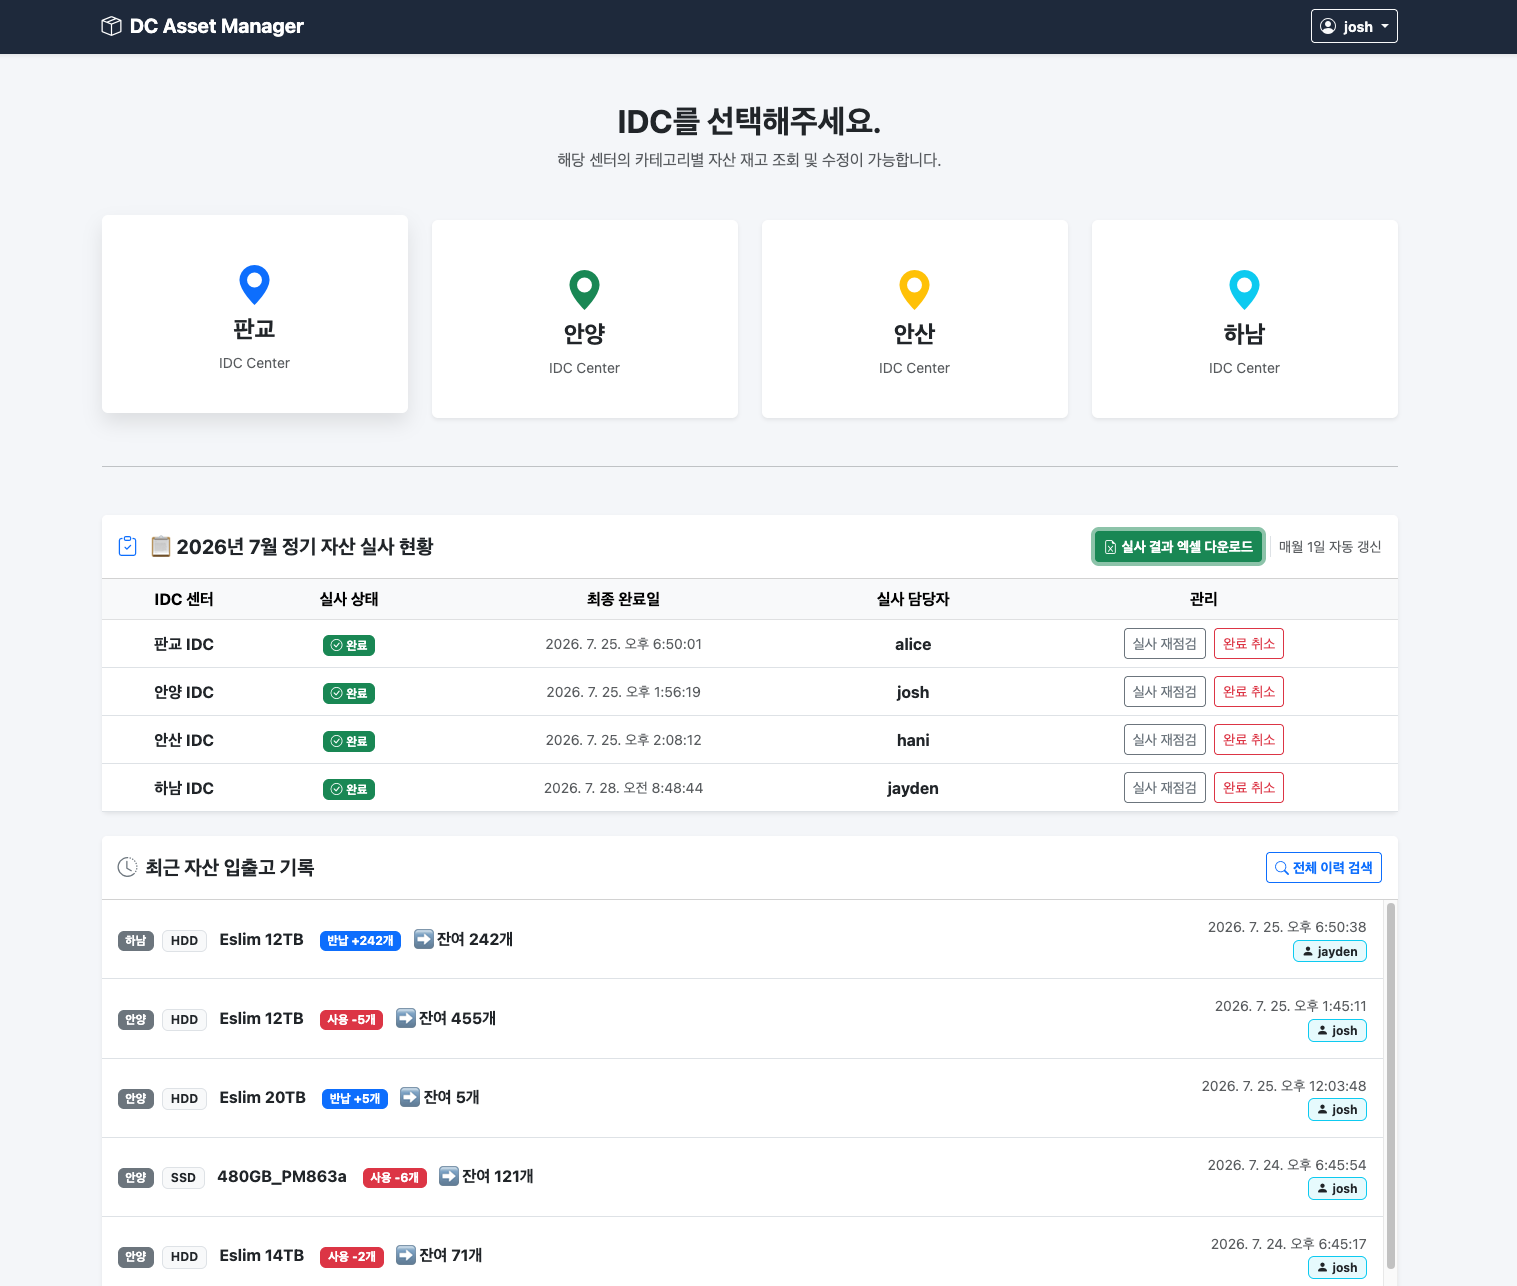
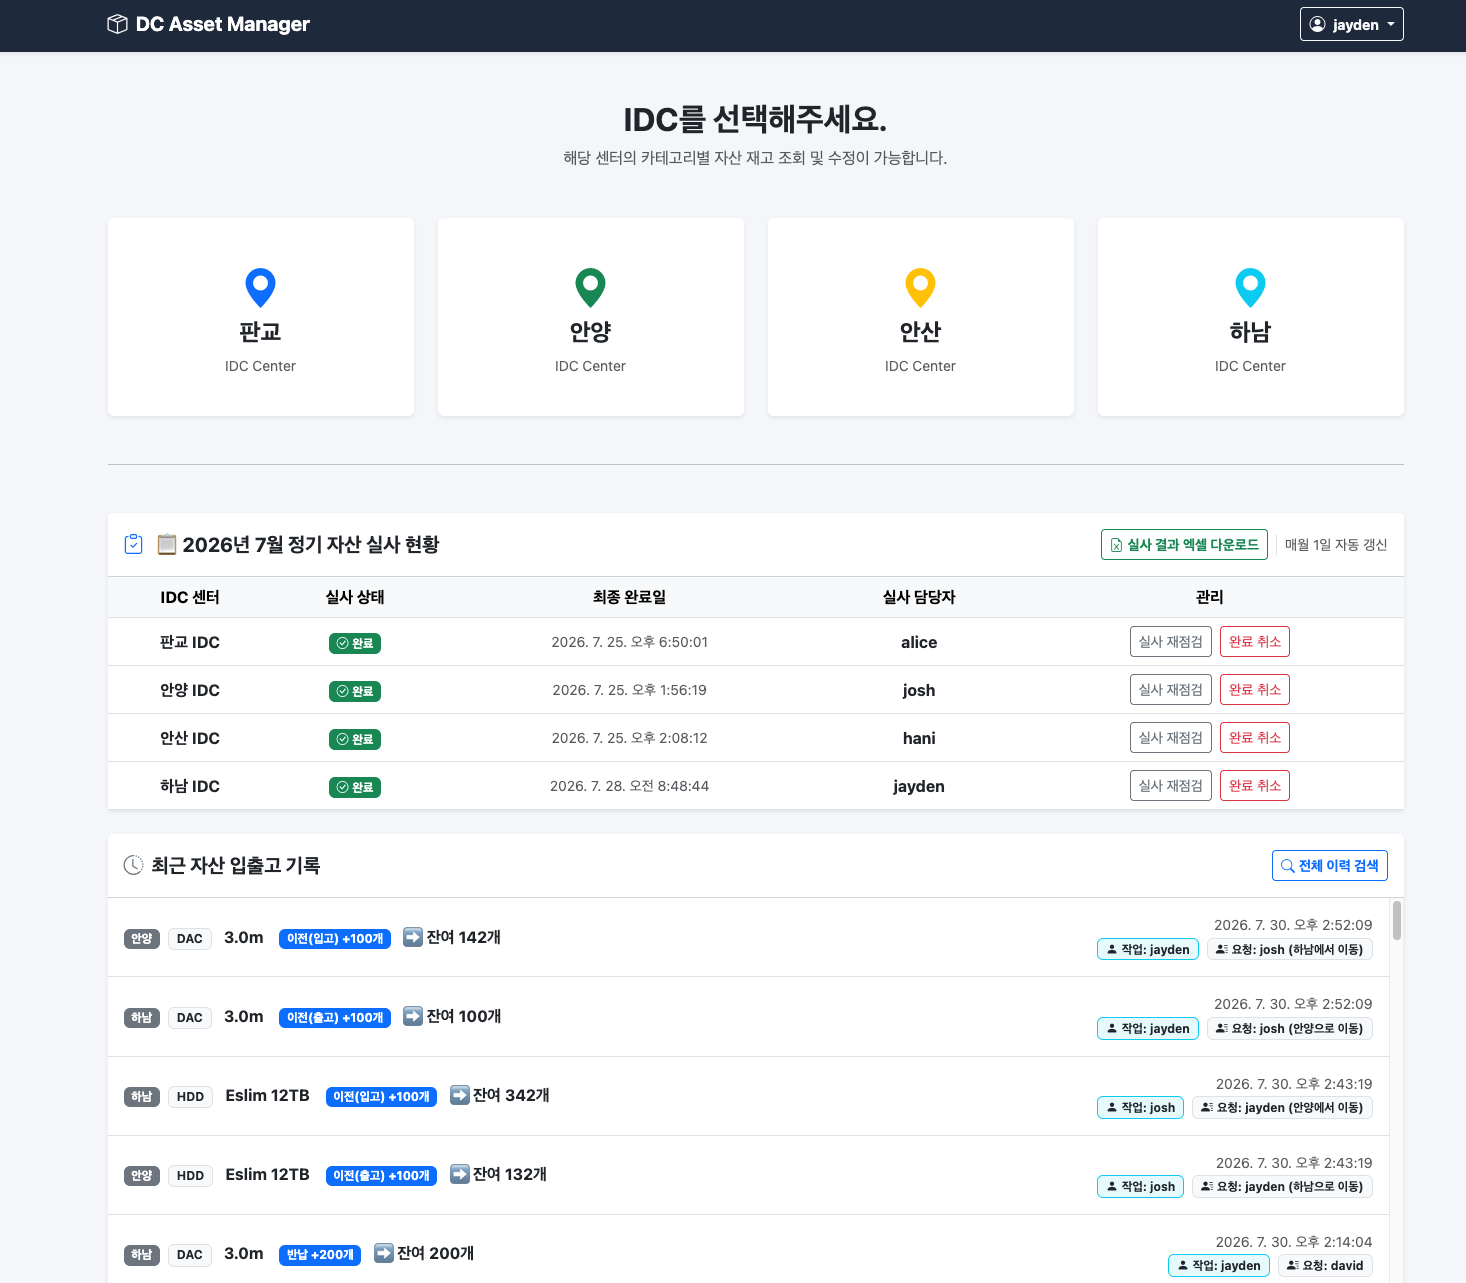
READ ME update

diff --git a/README.md b/README.md
@@ -11,6 +11,9 @@ Built to replace spreadsheet-based inventory tracking with a searchable, transac
 ### DC-wise Stock Status
 ![DC-wise Stock Status](./docs/DAM4.png)
 
+### Inter-Location Stock Transfer
+![Inter-Location Stock Transfer](./docs/DAM7.png)
+
 ### Monthly Batch Inspection
 ![Monthly Batch Inspection](./docs/DAM3.png)
 
@@ -64,13 +67,25 @@ Built to replace spreadsheet-based inventory tracking with a searchable, transac
 - Admin-only actions (adding or deleting asset items) are protected server-side by a `checkAdmin` middleware — not just hidden in the UI
 - The "Manage Asset Items" button is dynamically shown/hidden based on the logged-in user's role, fetched via `/api/me`
 
-### 6. Excel Export
-- Generates a downloadable `.xlsx` report of the current month's full inspection data across all locations, using the `xlsx` (SheetJS) library on the server
-- Report includes location, category, vendor, spec, quantity, last updated by/at for every asset item
+### 6. Inter-Location Stock Transfer
+- Added a "Transfer" option alongside Use/Return, allowing stock to move directly between IDC locations
+- Each transfer creates a paired log entry — `이전(출고)` (transfer-out) at the source and `이전(입고)` (transfer-in) at the destination — both within the same transaction for consistency
 
-### 7. Account Management
-- Users can change their own password from a dropdown menu under their username
+### 7. Requester Tracking
+- Use/Return/Transfer actions now require a requester name, stored alongside the operator (`updated_by`) for full accountability
+- Batch monthly inspections intentionally omit requester, since they reconcile overall stock counts rather than track individual requests
+
+### 8. Excel Export
+- Generates a downloadable `.xlsx` report of the current month's full inspection data across all locations, using the `xlsx` (SheetJS) library on the server
+- Open to all logged-in users (not admin-restricted) since it's meant for sharing inspection results across the team
+
+### 9. Account Management
+- Users can change their own password from a dropdown menu under their username, with current-password verification
 - Logout moved into the same dropdown for a cleaner header UI
+
+### 10. Full History Search
+- Dedicated modal for searching all stock change history across locations, with filters by location, category, and free-text search on spec/vendor
+- Paginated results (25 per page) for large history sets
 
 ---
 
@@ -84,6 +99,7 @@ Built to replace spreadsheet-based inventory tracking with a searchable, transac
 | `stock` | Per-location stock quantities (composite key: `location_id`, `item_id`) |
 | `stock_logs` | History of all stock changes (check-in/out, inspections) |
 | `monthly_inspections` | Per-location monthly inspection completion status and owner |
+| `stock_logs` | History of all stock changes (check-in/out, transfers, inspections), including requester for check-in/out/transfer |
 
 ---
 

diff --git a/README_ko.md b/README_ko.md
@@ -9,6 +9,9 @@
 ### DC별 재고 현황
 ![DC별 재고 현황](./docs/DAM4.png)
 
+### 지점 간 자산 이전
+![지점 간 자산 이전](./docs/DAM7.png)
+
 ### 정기 자산실사
 ![정기 자산실사](./docs/DAM3.png)
 
@@ -60,13 +63,25 @@
 - 자산 등록/삭제 같은 관리자 전용 기능은 화면에서만 숨기는 게 아니라 `checkAdmin` 미들웨어로 서버단에서도 차단
 - `/api/me`를 통해 로그인한 유저의 권한을 조회해 "자산 항목 관리" 버튼을 동적으로 노출/비노출
 
-### 6. 엑셀 내보내기
-- 서버에서 `xlsx`(SheetJS) 라이브러리를 이용해 이번 달 전체 지점의 실사 데이터를 `.xlsx` 파일로 다운로드
-- IDC 센터, 카테고리, 제조사, 스펙, 수량, 최종 수정자/일시까지 포함된 리포트 제공
+### 6. 지점 간 재고 이전
+- 사용/반납 외에 "이전" 옵션을 추가해 IDC 지점 간 재고를 직접 이동 가능
+- 이전 시 출발지엔 `이전(출고)`, 목적지엔 `이전(입고)` 로그가 한 트랜잭션 안에서 쌍으로 기록되어 데이터 일관성 보장
 
-### 7. 계정 관리
-- 사용자명 드롭다운 메뉴에서 본인 비밀번호 변경 가능
+### 7. 요청자 기록
+- 사용/반납/이전 처리 시 요청자 입력을 필수화해, 작업자(`updated_by`)와 별도로 요청자 정보까지 이력에 남김
+- 월간 일괄 실사는 전체 재고 수량 파악이 목적이라 요청자 항목을 의도적으로 제외
+
+### 8. 엑셀 내보내기
+- 서버에서 `xlsx`(SheetJS) 라이브러리를 이용해 이번 달 전체 지점의 실사 데이터를 `.xlsx` 파일로 다운로드
+- 실사 결과 공유 목적이라 관리자 제한 없이 로그인한 모든 사용자가 이용 가능
+
+### 9. 계정 관리
+- 사용자명 드롭다운 메뉴에서 현재 비밀번호 확인 후 본인 비밀번호 변경 가능
 - 로그아웃 버튼도 같은 드롭다운으로 통합해 헤더 UI 정리
+
+### 10. 전체 이력 검색
+- 지점/카테고리/스펙·제조사 검색어로 필터링 가능한 전체 이력 조회 모달
+- 대용량 이력 데이터를 위한 페이지네이션(25건씩) 적용
 
 ---
 
@@ -79,6 +94,7 @@
 - **`stock_logs`**: 자산 입출고/실사 변경 이력 데이터
 - **`monthly_inspections`**: 지점별 월간 실사 완료 여부 및 담당자 정보
 - **`users`**: 사용자 계정, 암호화된 비밀번호, 권한(`admin`/`user`) 정보
+- **`stock_logs`**: 자산 입출고/이전/실사 변경 이력 데이터 (입출고·이전 시 요청자 정보 포함)
 
 ## 🚀 시작하기
 
